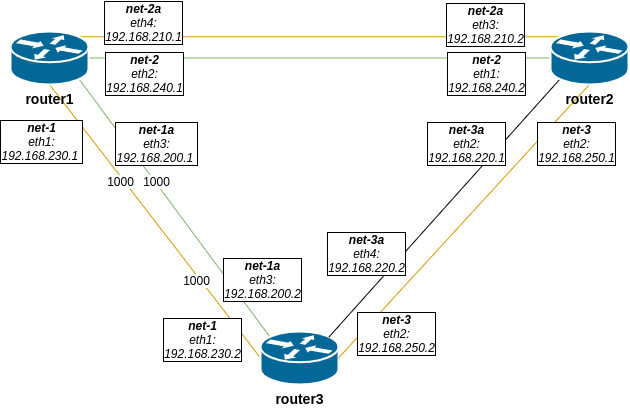
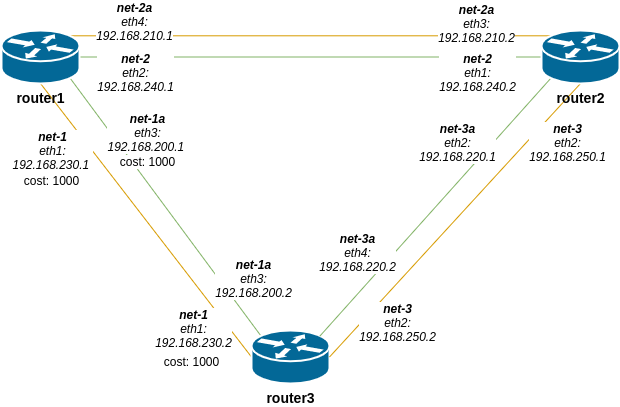
Выполнено на 90%

diff --git a/ospf/README.md b/ospf/README.md
@@ -16,38 +16,109 @@ Vagrantfile + ansible
 
 В качестве программного роутера было выбрано решение Quagga. Посмотрел на FRR, в принципе тоже неплох, но вероятно были какие-то проблемы с серверами и загрузка rpm-ника шла по 10-15 минут на каждой машине, что не есть быстро. Вернулся на Quagga.
 
+Схема стенда:
+
+![scheme.png](ospf-homework.png)
+
+1. Поднимаем стенд:
 
 ```bash
-[root@router1 ~]ip r
+vagrant up
+```
+
+2. Провиженим:
+
+```bash
+ansible-playbook provision.yml -vv
+```
+
+Информация о маршрутах на роутерах:
+
+```bash
+[vagrant@router1 ~]$ ip r
 default via 10.0.2.2 dev eth0 proto dhcp metric 100 
 10.0.2.0/24 dev eth0 proto kernel scope link src 10.0.2.15 metric 100 
+192.168.200.0/29 dev eth3 proto kernel scope link src 192.168.200.1 metric 103 
+192.168.210.0/29 dev eth4 proto kernel scope link src 192.168.210.1 metric 104 
+192.168.220.0/29 proto zebra metric 20 
+        nexthop via 192.168.240.2 dev eth2 weight 1 
+        nexthop via 192.168.210.2 dev eth4 weight 1 
 192.168.230.0/29 dev eth1 proto kernel scope link src 192.168.230.1 metric 101 
 192.168.240.0/29 dev eth2 proto kernel scope link src 192.168.240.1 metric 102 
 192.168.250.0/29 proto zebra metric 20 
-        nexthop via 192.168.230.2 dev eth1 weight 1 
         nexthop via 192.168.240.2 dev eth2 weight 1 
+        nexthop via 192.168.210.2 dev eth4 weight 1 
 ```
 
 ```bash
-[root@router2 ~] ip r
-default via 10.0.2.2 dev eth0 proto dhcp metric 100 
-10.0.2.0/24 dev eth0 proto kernel scope link src 10.0.2.15 metric 100 
-192.168.230.0/29 proto zebra metric 20 
-        nexthop via 192.168.240.1 dev eth1 weight 1 
+[vagrant@router2 ~]$ ip r
+default via 10.0.2.2 dev eth0 proto dhcp metric 101 
+10.0.2.0/24 dev eth0 proto kernel scope link src 10.0.2.15 metric 101 
+192.168.200.0/29 proto zebra metric 20 
         nexthop via 192.168.250.2 dev eth2 weight 1 
-192.168.240.0/29 dev eth1 proto kernel scope link src 192.168.240.2 metric 101 
-192.168.250.0/29 dev eth2 proto kernel scope link src 192.168.250.1 metric 102 
+        nexthop via 192.168.220.2 dev eth4 weight 1 
+192.168.210.0/29 dev eth3 proto kernel scope link src 192.168.210.2 metric 103 
+192.168.220.0/29 dev eth4 proto kernel scope link src 192.168.220.1 metric 104 
+192.168.230.0/29 proto zebra metric 1010 
+        nexthop via 192.168.240.1 dev eth1 weight 1 
+        nexthop via 192.168.210.1 dev eth3 weight 1 
+        nexthop via 192.168.250.2 dev eth2 weight 1 
+        nexthop via 192.168.220.2 dev eth4 weight 1 
+192.168.240.0/29 dev eth1 proto kernel scope link src 192.168.240.2 metric 100 
+192.168.250.0/29 dev eth2 proto kernel scope link src 192.168.250.1 metric 102
 ```
 
 ```bash
-[root@router3 ~] ip r
-default via 10.0.2.2 dev eth0 proto dhcp metric 100 
-10.0.2.0/24 dev eth0 proto kernel scope link src 10.0.2.15 metric 100 
-192.168.230.0/29 dev eth1 proto kernel scope link src 192.168.230.2 metric 101 
-192.168.240.0/29 proto zebra metric 20 
-        nexthop via 192.168.230.1 dev eth1 weight 1 
+[vagrant@router3 ~]$ ip r
+default via 10.0.2.2 dev eth0 proto dhcp metric 101 
+10.0.2.0/24 dev eth0 proto kernel scope link src 10.0.2.15 metric 101 
+192.168.200.0/29 dev eth3 proto kernel scope link src 192.168.200.2 metric 103 
+192.168.210.0/29 proto zebra metric 20 
         nexthop via 192.168.250.1 dev eth2 weight 1 
+        nexthop via 192.168.220.1 dev eth4 weight 1 
+        nexthop via 192.168.200.1 dev eth3 weight 1 
+192.168.220.0/29 dev eth4 proto kernel scope link src 192.168.220.2 metric 104 
+192.168.230.0/29 dev eth1 proto kernel scope link src 192.168.230.2 metric 100 
+192.168.240.0/29 proto zebra metric 20 
+        nexthop via 192.168.250.1 dev eth2 weight 1 
+        nexthop via 192.168.220.1 dev eth4 weight 1 
+        nexthop via 192.168.200.1 dev eth3 weight 1 
 192.168.250.0/29 dev eth2 proto kernel scope link src 192.168.250.2 metric 102 
 ```
 
-![scheme.png](ospf-homework.png)
+3. Смотрим **tracepath** между router3 и router1, должен быть выбрать "дешевый" маршрут.
+
+```bash
+[vagrant@router3 ~]$ tracepath -n 192.168.210.1
+ 1?: [LOCALHOST]                                         pmtu 1500
+ 1:  192.168.250.1                                         1.240ms 
+ 1:  192.168.250.1                                         0.907ms 
+ 2:  192.168.210.1                                         1.858ms reached
+     Resume: pmtu 1500 hops 2 back 2 
+```
+
+```bash
+[vagrant@router3 ~]$ tracepath -n 192.168.240.1
+ 1?: [LOCALHOST]                                         pmtu 1500
+ 1:  192.168.220.1                                         1.310ms 
+ 1:  192.168.220.1                                         0.955ms 
+ 2:  192.168.240.1                                         1.942ms reached
+     Resume: pmtu 1500 hops 2 back 2 
+```
+
+Проверим как пойдет от router1 к router3:
+
+```bash
+[vagrant@router1 ~]$ tracepath -n 192.168.250.2
+ 1?: [LOCALHOST]                                         pmtu 1500
+ 1:  192.168.210.2                                         1.448ms 
+ 1:  192.168.210.2                                         1.016ms 
+ 2:  192.168.250.2                                         2.134ms reached
+     Resume: pmtu 1500 hops 2 back 2 
+```
+
+Ospf cost работает.
+
+4. Проверим асинхронную маршрутизацию, трафик отправляем с одного интерфейса, получаем на другом.
+
+Не взлетает почему-то ?! трафик как уходит с одного интерфейса так и приходит. Пингую router3
